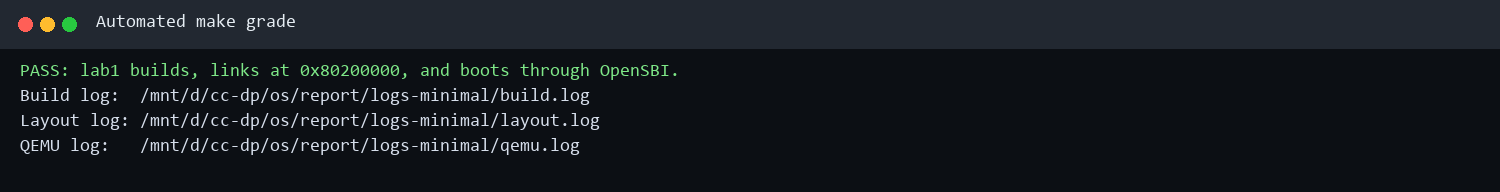
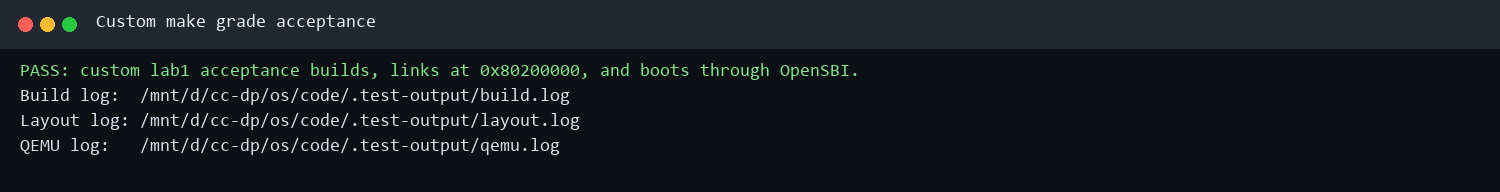
Refine lab1 report and validation evidence

diff --git a/report/prompt.md b/report/prompt.md
@@ -195,7 +195,10 @@ Post-Condition：OpenSBI 输出 Next Address=0x80200000，随后出现
 
 [SPECIFICATION]
 Success Output：
-PASS: lab1 builds, links at 0x80200000, and boots through OpenSBI.
+PASS: custom lab1 acceptance builds, links at 0x80200000, and boots through OpenSBI.
+
+Boundary：该脚本是小组为复现构建、地址和启动现象编写的本地验收工具，
+不得将其结果表述为课程官方评分或分数。
 ````
 
 ## 9. 报告与仓库交付提示词
@@ -220,4 +223,45 @@ report/prompt.md；测试截图放入 report/images/。
 [SPECIFICATION]
 Post-Condition：远程 GitHub lab1 分支包含可审核的完整交付物；输出提交号、
 测试摘要和分支链接。
+````
+
+## 10. 同伴仓库横向复核提示词
+
+````markdown
+[TASK]
+只读审阅 https://github.com/lujilanfan/OS 的 lab1 分支，检查本组报告是否遗漏
+有助于解释课程代码的关键证据或答辩易错点。
+
+[RELY]
+- 教师提供的 lab1.zip、模板和本组实测结果始终具有更高优先级。
+- 同伴仓库只用于横向比较，不保证内容、环境版本或结论正确。
+
+[GUARANTEE]
+- 不复制对方报告文本、图片或未经本组复测的数据。
+- 只吸收可由本组源码、objdump、QEMU 和 GDB 证据独立验证的分析角度。
+- 明确两项正式练习：entry.S 指令解释，以及复位到内核入口的 GDB 跟踪。
+- 区分构建链与运行链；补充 cprintf 到 SBI ecall 的字符输出链。
+- 明确自定义 make grade 只是本地验收，不冒充课程官方评分。
+
+[SPECIFICATION]
+Post-Condition：报告结构更清晰、技术边界更准确，所有新增事实均能由本组代码
+或实测证据支持，并在参考资料中标明同伴仓库仅供横向比较。
+````
+
+## 11. 答辩准备提示词（仅本地使用）
+
+````markdown
+[TASK]
+依据最终 code/、report/report.md 与实测日志，为三位成员分别准备 Lab1 答辩提纲，
+涵盖个人分工、核心原理、关键地址、常见追问、现场演示和容易说错的边界。
+
+[GUARANTEE]
+- 回答必须简洁、可口述，并给出追问时的技术依据。
+- 三人都掌握完整启动链，各自重点对应构建、入口/链接、OpenSBI/GDB。
+- 不声称实现了当前源码中不存在的中断、输入、内存管理或进程功能。
+- 不把自定义 make grade 称为课程官方评分。
+- 答辩材料保存为仓库外或 Git 本地排除文件，不提交到 GitHub。
+
+[SPECIFICATION]
+Post-Condition：生成一份可直接复习和演示的本地 Markdown 文档。
 ````
